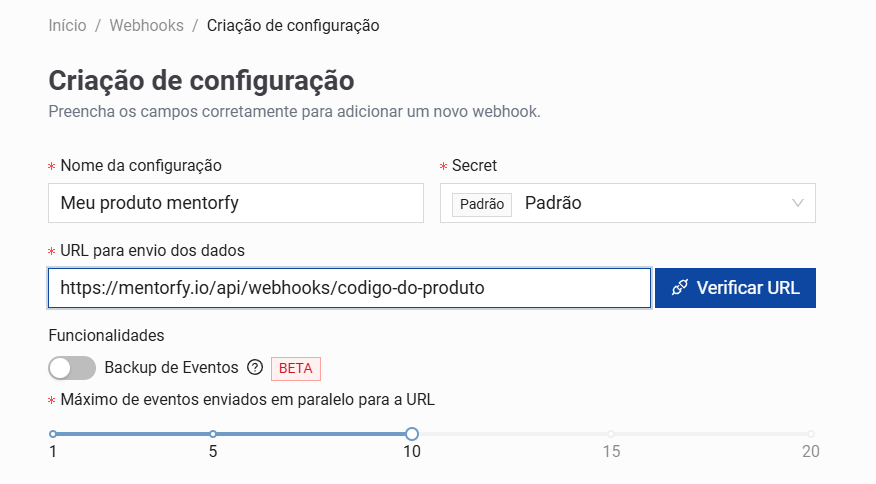
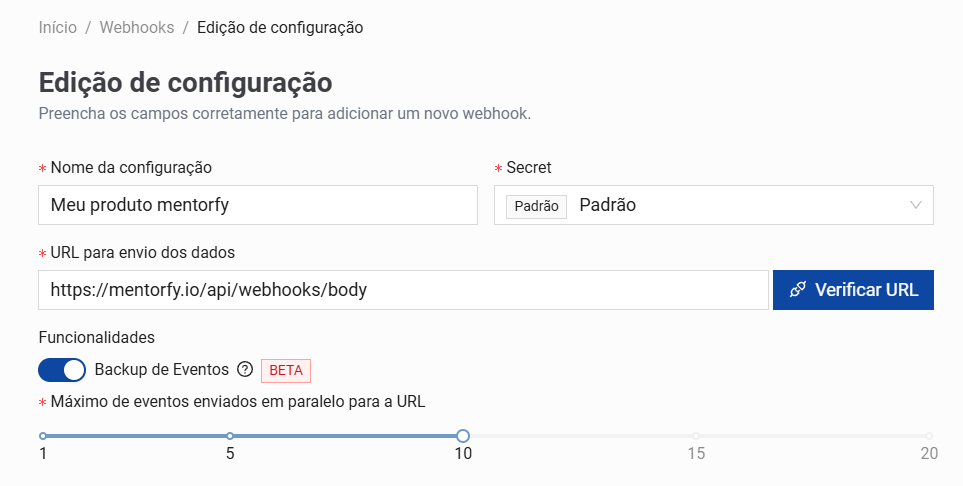
📚 docs: update Eduzz integration guide - Changes instructions to use reference code instead of API key - Updates navigation steps to reflect changes in the platform UI - Adds new image for reference code and updates form screenshot - Includes additional step on how to use the reference code in produ

diff --git a/docs/integracoes/Eduzz.md b/docs/integracoes/Eduzz.md
@@ -6,17 +6,20 @@ sidebar_position: 4
 
 Siga este passo a passo para integrar seu fluxo de vendas ao fluxo de entrega Mentorfy usando a Eduzz.
 
-Antes de configurar o webhook, precisamos **copiar o link fornecido pela Mentorfy** do produto que deseja integrar e **copiar a chave da API da Eduzz** para salvar na Mentorfy.
+Antes de configurar o webhook, precisamos **copiar o código de referência fornecido pela Mentorfy** do produto que deseja integrar.
 
 1. Acesse o seu produto que deseja integrar:
 ```
-Minhas mentorias > Mentoria Escolhida > Integrações
+Minhas mentorias > Mentoria Escolhida > Configurações
 ```
 
-2. **Copie o link** fornecido pela Mentorfy, usaremos ele para configurar o webhook na Eduzz. Ele se parecerá com:
+2. **Copie o código de referência** fornecido pela Mentorfy, usaremos ele para configurar o webhook na Eduzz. Ele se parecerá com:
 ```
-https://app.mentorfy.io/api/webhooks/codigo123
+codigo123
 ```
+<img src="/docs/img/codigo_produto.png" height="200" alt="chave da API"  /> 
+<br/>
+<br/>
 
 3. Entre na sua conta e depois vá até seu Hub https://console.eduzz.com/webhook
 ```
@@ -27,8 +30,10 @@ Clique em Nova Configuração.
 <br/>
 <br/>
 
-5. Preencha o formulário com as seguintes informações, **lembrando que o link deve ser o mesmo que você copiou da Mentorfy**:
-
+5. Preencha o formulário com as seguintes informações:
+```
+URL para envio dos dados: https://mentorfy.io/api/webhooks/body
+```
 <img src="/docs/img/eduzz_form1.png" alt="chave da API" /> 
 <br/>
 <br/>
@@ -39,7 +44,17 @@ Clique em Nova Configuração.
 <br/>
 <br/>
 
-8. Clique em **Criar configuração** ao final da página e pronto!
+8. Clique em **Criar configuração** ao final da página.
+
+9. Agora para fazermos uma entrega de produto basta você usar o **código de referência** que você copiou da Mentorfy 
+no final do nome do produto/checkout (#codigo123):
+
+```
+Para produtos: Meu produto A #codigo123
+Para trilhas: Minha trilha ABC ##123
+```
+Isso serve para identificar os produtos que serão liberados para o cliente.
+
 
 ## Testando a integração
 
